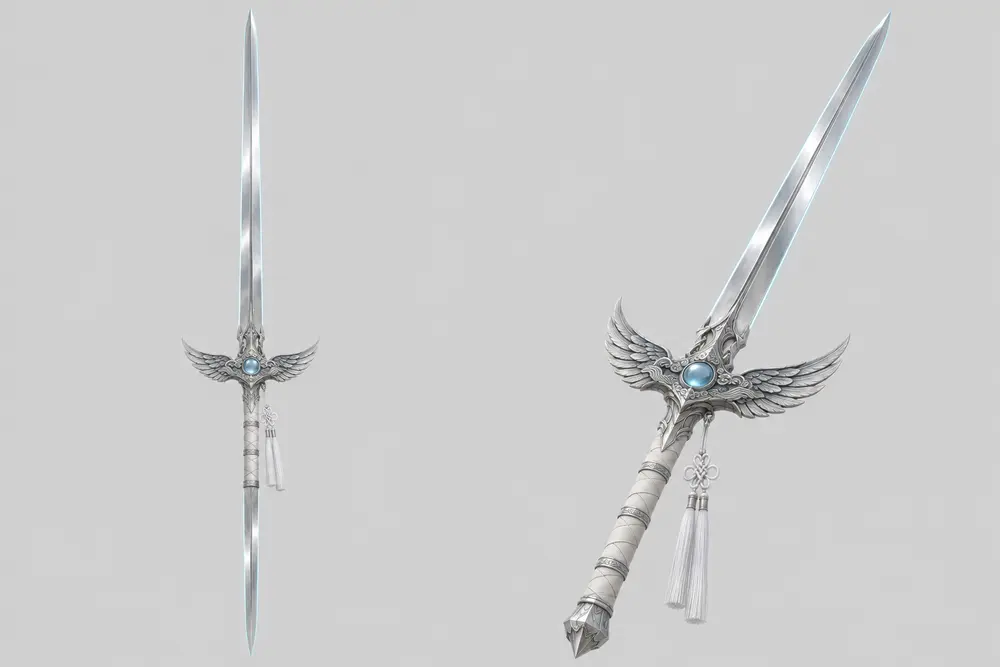
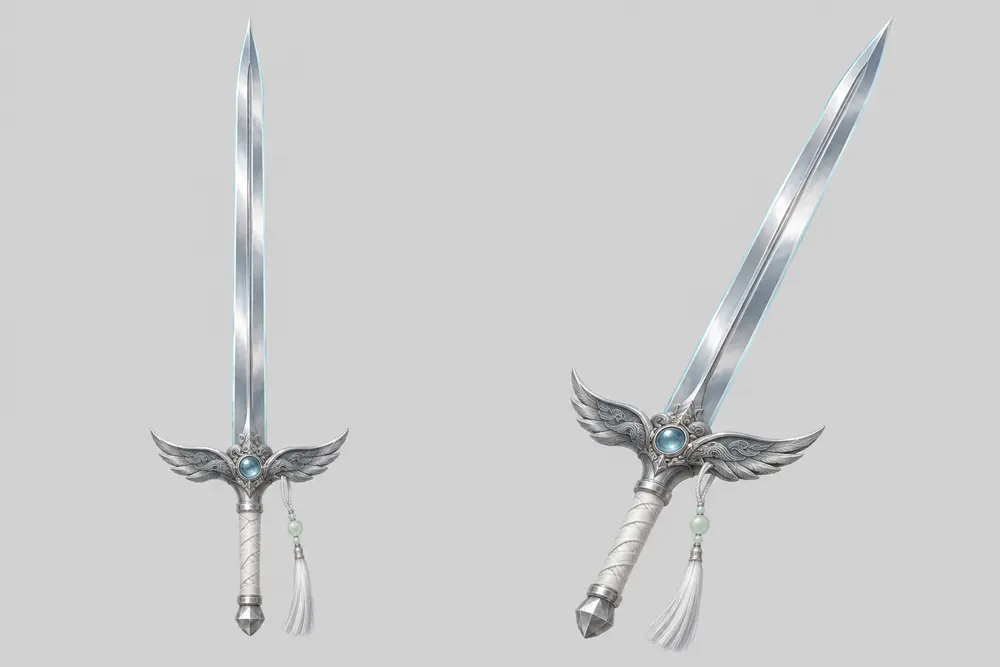
fix(art): vẽ lại kiếm Kính Quang dạng cuối +10 (một lưỡi, đốc kiếm ở đáy)

Changed region(s): [[0.558, 0.03, 0.899, 0.9895], [0.155, 0.03, 0.341, 0.9595], [0.806, 0.6297, 0.837, 0.6597]]

diff --git a/docs/outfit-concepts-p2/img/prompts.md b/docs/outfit-concepts-p2/img/prompts.md
@@ -296,7 +296,7 @@ Dạng gốc dùng model #119 có sẵn (`prop_kiem_kinh_quang`), giữ nguyên 
 - **Lưu ý khi dựng:** Lưỡi bạc gương là khối đặc có độ dày thật, mép xuyên sáng lạnh chỉ là viền mảnh dựng đặc (worker làm phát sáng bằng vật liệu riêng); KHÔNG dùng trong suốt thật. Chắn hình cánh mỏng phải có độ dày. Dạng gốc (#119) vẫn giữ cho +0…+9; dạng cuối thay lúc cường hóa +10.
 
 ```text
-A single the final awakened form of a mirror sword: a long slender double-edged blade (about 1.15 times longer than a normal sword) of mirror-polished silver whose flat faces reflect like a mirror, razor edges with a thin cold translucent pale-blue rim glow, a shallow central fuller, a widened crossguard swept upward like a pair of thin wing-shaped feathered plates in dark aged silver-grey metal with engraved cloud-wave lines and a round blue-gem mirror eye at the center, a pale leather-wrapped grip with silver rings, a faceted silver pommel. Isolated game prop, no hand, no person, clean geometry, hand-painted PBR materials, semi-realistic cinematic style, mirror-polished silver, cold blue accents.
+A single the final awakened form of a mirror sword: a SINGLE long slender double-edged blade (about 1.15 times longer than a normal sword), ONE blade tip only, the blade exists ONLY ABOVE the crossguard; below the crossguard there is ONLY a short pale leather-wrapped grip that ends in a faceted silver pommel at the very bottom (NO blade, NO spike, NO second blade below the grip, NOT a double-ended sword). The blade is of mirror-polished silver whose flat faces reflect like a mirror, razor edges with a thin cold translucent pale-blue rim glow, a shallow central fuller, a widened crossguard swept upward like a pair of thin wing-shaped feathered plates in dark aged silver-grey metal with engraved cloud-wave lines and a round blue-gem mirror eye at the center, a short white-wrapped grip with silver rings ending in the pommel, a faceted silver pommel at the bottom end, a white-silver jade-bead tassel hanging from the guard. Isolated game prop, no hand, no person, clean geometry, hand-painted PBR materials, semi-realistic cinematic style, mirror-polished silver, cold blue accents.
 ```
 
 ### Vỏ kiếm · `kiem_kinh_quang_vo`

diff --git a/docs/outfit-concepts-p2/README.md b/docs/outfit-concepts-p2/README.md
@@ -215,7 +215,7 @@ Lưu vào: `D:\METAGRIT\dtl-asset-source\prop\prop_kiem_kinh_quang\tripo\`
 | Dạng cuối +10 | `outfit_kiem_kinh_quang_cuoi_v01_front.png` | **HD Model** | ~4.000 | `raw_cuoi_v01.glb` |
 | Vỏ kiếm | `outfit_kiem_kinh_quang_vo_v01_front.png` | Smart Mesh | ~1.500 | `raw_vo_v01.glb` |
 
-Lưu ý ảnh `_front` của dạng cuối: phần nhọn dưới chuôi là đầu chuôi (pommel), không phải lưỡi thứ hai; nếu Tripo dựng thành lưỡi hai đầu thì dựng lại. Kiểm tra riêng: lưỡi thẳng, có độ dày thật, mũi nhọn; chắn hình cánh dày vừa phải; chuôi tròn đều; vỏ kín và vừa dài với lưỡi. Dạng gốc dùng lại model #119, không dựng.
+Kiểm tra riêng: lưỡi thẳng, có độ dày thật, mũi nhọn; chắn hình cánh dày vừa phải; chuôi tròn đều; vỏ kín và vừa dài với lưỡi. Dạng gốc dùng lại model #119, không dựng.
 
 Prompt tiếng Anh tùy chọn và spec xương từng mảnh: [img/prompts.md](img/prompts.md).
 
